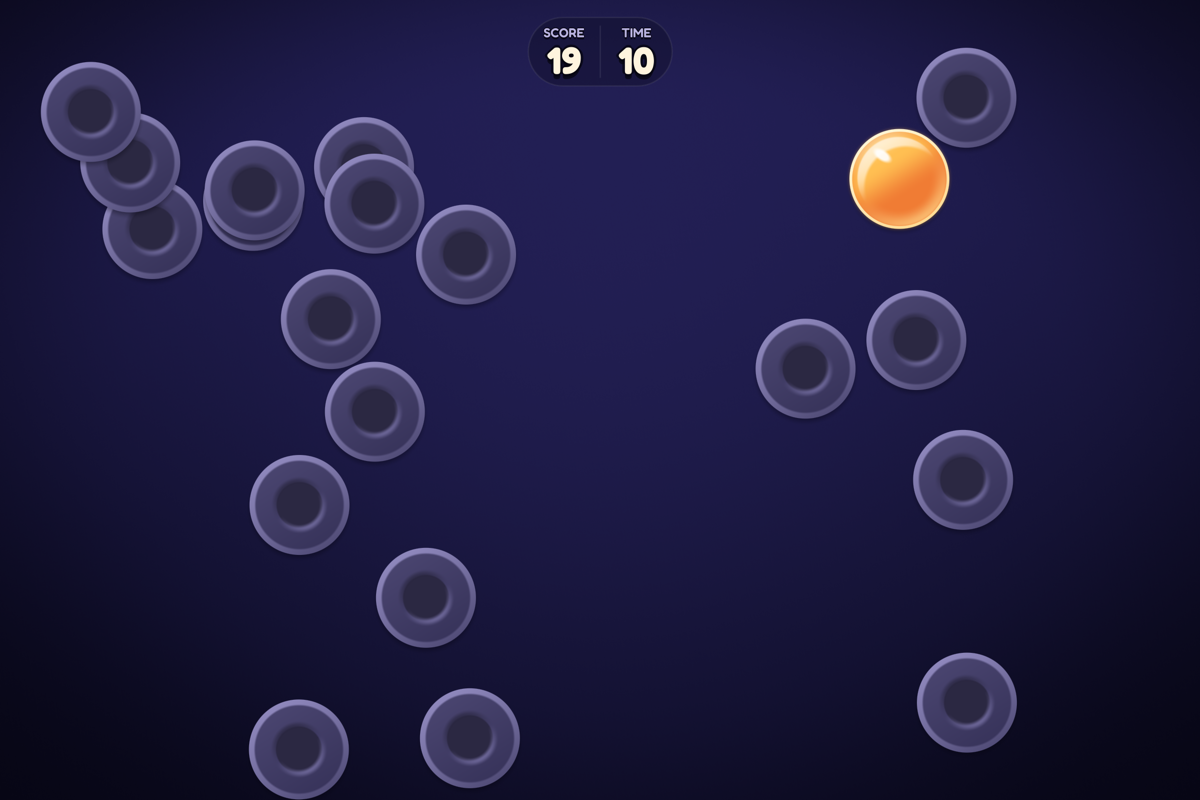
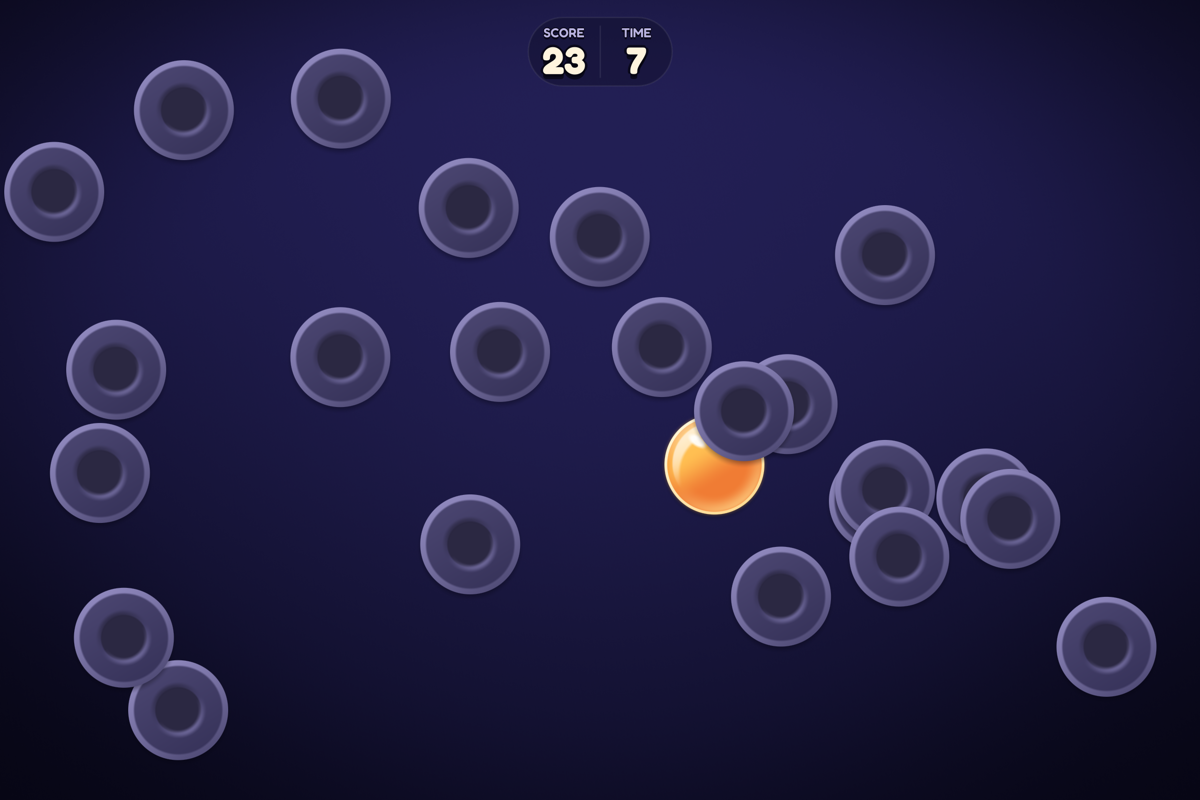
docs: show the bright dot under a popped one in the README
The README's screenshot of a round showed the bright dot in the open,
so it missed what makes the game: each new dot appears under the popped
ones. The new screenshot catches it half hidden under one, with a
caption that says so. The developer guide's recipe now takes a
screenshot every half second, since the game times them by the clock
and two runs with one seed catch slightly different moments.

diff --git a/doc/README.md b/doc/README.md
@@ -93,12 +93,14 @@ The game reads these from its environment. `main.rb` lists them all.
 | `DOT_POPPER_FAKE_TILT=0.6,0` | Stands in for a tablet's accelerometer, to roll the pile at Game Over |
 | `DOT_POPPER_CALM=1` | Turns off the screen shake, and makes the pile settle gently. Players use this one too |
 
-The screenshots in the README came from one run:
+The screenshots in the README came from bot runs like this one, which saves a screenshot every half second from 12 to 34 seconds in:
 
 ```console
-$ DOT_POPPER_AUTOPLAY=1 DOT_POPPER_NO_SPLASH=1 DOT_POPPER_SAVE_AS=readme_shots \
-  DOT_POPPER_SEED=7 DOT_POPPER_SHOTS=1.5,20,38 DOT_POPPER_QUIT_AFTER=39 bundle exec lota run
+$ DOT_POPPER_AUTOPLAY=1 DOT_POPPER_NO_SPLASH=1 DOT_POPPER_SAVE_AS=readme_cover DOT_POPPER_SEED=7 \
+  DOT_POPPER_SHOTS=$(ruby -e "puts (12..34).step(0.5).to_a.join(%q(,))") DOT_POPPER_QUIT_AFTER=35 bundle exec lota run
 ```
+
+The seed repeats the same rounds, but the game times each screenshot by the clock, not by the frame, so two runs catch slightly different moments. Take many, and choose the one that shows the bright dot under a popped one.
 
 ## Tests
 

diff --git a/README.md b/README.md
@@ -12,7 +12,9 @@ Dot Popper is an arcade game for one player, on Mac, Windows, and Linux. One bri
 
 A round starts with 10 seconds on the clock. Each pop gives you a point and a second. A click on a popped dot takes away 2 points and 2 seconds. After 20 pops, 20 dull dots crowd the screen, and the bright one can be under any of them. Wait for it to slide out, or take a chance.
 
-![A round in progress: score 19, 10 seconds left, one bright orange dot among the popped purple dots](doc/images/round.png)
+![A round in progress: score 23, 7 seconds left, and the bright orange dot half hidden under a popped purple dot](doc/images/round.png)
+
+*The bright dot, sliding out from under a popped one.*
 
 Dot Popper is free and open source. [Download it](#install) from the releases page.
 
